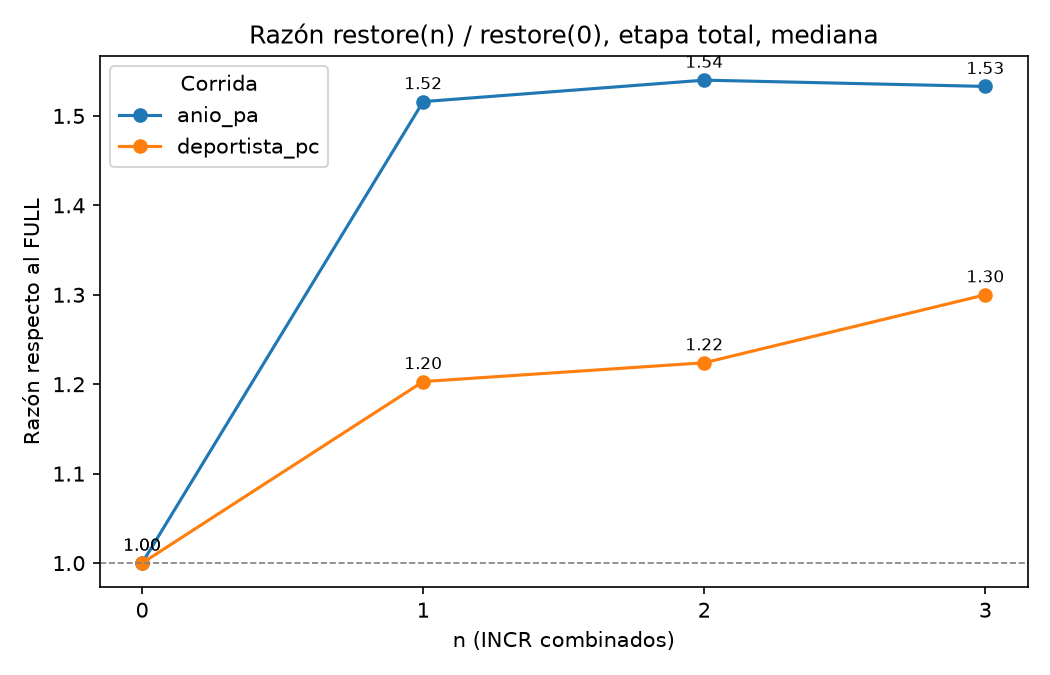
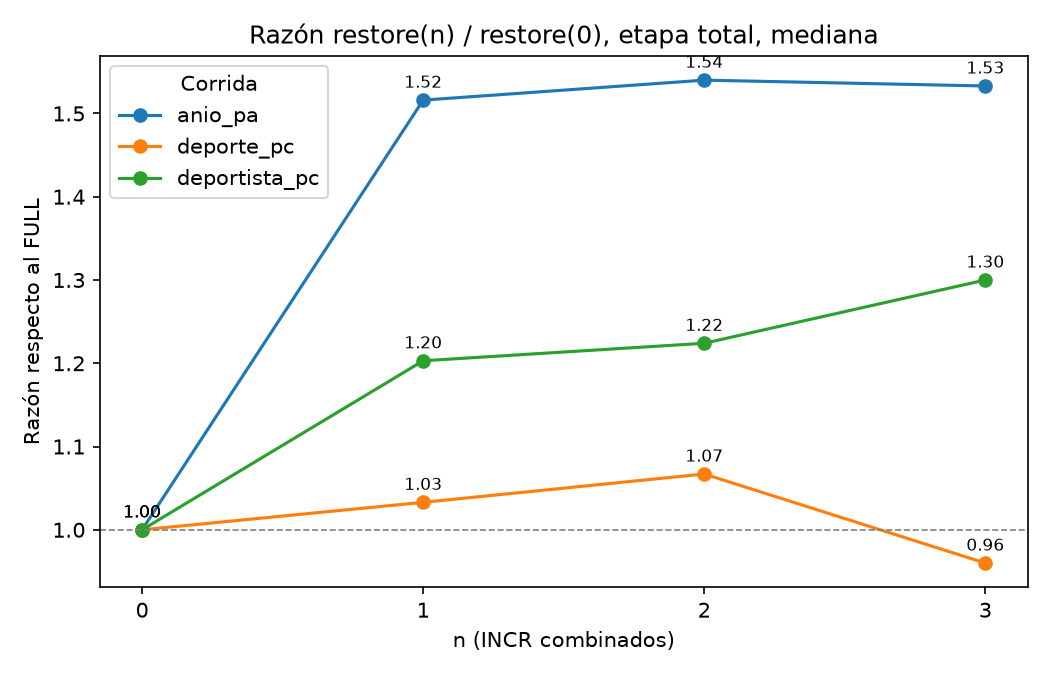
docs: resultados del analisis con anio_pa, deporte_pc y deportista_pc

diff --git a/Fase 2/07_documentacion/analisis/RESUMEN_ANALISIS.md b/Fase 2/07_documentacion/analisis/RESUMEN_ANALISIS.md
@@ -6,6 +6,7 @@ Generado por `07_documentacion/analisis/analizar.py` a partir de `05_logs/tiempo
 
 - `tiempos_anio_pa.csv`: válido (formato y cruce con logs).
 - `tiempos_deporte_pb.csv`: **excluido** (4 motivos, todos en `ESTADO_CSV.md`). Primero: fila 9 (restore n=0 rep 1, total 0.741 s, inicio 18:39:29.179): no coincide con `deporte_pb_12_restore_cadena0_rep1.log` (Total 2.444 s, inicio 2026-10-16 22:48:23); solo coincide con el log rotado `deporte_pb_12_restore_cadena0_rep1.20261016_222939.log`.
+- `tiempos_deporte_pc.csv`: válido (formato y cruce con logs).
 - `tiempos_deportista_pc.csv`: válido (formato y cruce con logs).
 - `tiempos_deportista_pa.csv`: no existe. [PENDIENTE]
 - `tiempos_deportista_pb.csv`: no existe. [PENDIENTE]
@@ -14,7 +15,9 @@ Detalle en `ESTADO_CSV.md`.
 
 **Advertencia:** las máquinas del equipo son distintas. Entre máquinas se comparan razones (por ejemplo restore(n)/restore(0)), no segundos. Los segundos absolutos solo sirven dentro de una misma corrida.
 
-Las corridas válidas (anio_pa, deportista_pc) difieren a la vez en el tipo de carga y en la máquina (pa-laptop, pc-laptop). Entre ellas solo se comparan razones, y aun así no se puede separar el efecto de la carga del de la máquina.
+En `pc-laptop` hay 2 corridas (deporte_pc, deportista_pc): entre ellas la máquina es la misma, así que la diferencia de tiempos se atribuye al tipo de carga y sí se pueden comparar segundos, con la salvedad de la caché del sistema operativo.
+
+Las corridas en máquinas distintas (anio_pa en pa-laptop, deporte_pc en pc-laptop, deportista_pc en pc-laptop) solo se comparan por razones; entre ellas no se puede separar el efecto de la carga del de la máquina.
 
 ## Medido
 
@@ -55,6 +58,44 @@ Restauración, `total` (mediana) y razón restore(n) / restore(0):
 - n=3: mediana 0.095 s, 2.7 % del total.
 
 `pg_verifybackup` de los respaldos (fuera del tiempo medido, solo informativo): FULL 0.083 s, INCR 1 0.081 s, INCR 2 0.081 s, INCR 3 0.078 s.
+
+### Corrida `deporte_pc` (máquina `pc-laptop`)
+
+Respaldos (etapa `basebackup`):
+
+- FULL: 1.516 s, 49973476 bytes (49.97 MB).
+- INCR 1: 0.845 s, 21730223 bytes (21.73 MB).
+- INCR 2: 0.948 s, 21730975 bytes (21.73 MB).
+- INCR 3: 0.921 s, 21747383 bytes (21.75 MB).
+
+Razón de tamaño incr(n).bytes / full.bytes:
+
+- INCR 1: 21730223 / 49973476 = 0.435.
+- INCR 2: 21730975 / 49973476 = 0.435.
+- INCR 3: 21747383 / 49973476 = 0.435.
+
+Restauración, mediana de 3 repeticiones por etapa (sin `total`):
+
+- n=0: combinar 0.351 s, arranque 0.980 s, validacion 0.287 s.
+- n=1: combinar 0.854 s, arranque 0.731 s, validacion 0.187 s.
+- n=2: combinar 0.937 s, arranque 0.639 s, validacion 0.193 s.
+- n=3: combinar 0.809 s, arranque 0.634 s, validacion 0.190 s.
+
+Restauración, `total` (mediana) y razón restore(n) / restore(0):
+
+- n=0: 1.837 s, razón 1.000.
+- n=1: 1.898 s, razón 1.033.
+- n=2: 1.960 s, razón 1.067.
+- n=3: 1.764 s, razón 0.960.
+
+`pg_verifybackup` dentro de `total` (de los logs de restauración):
+
+- n=0: mediana 0.094 s, 5.3 % del total.
+- n=1: mediana 0.058 s, 3.0 % del total.
+- n=2: mediana 0.065 s, 3.3 % del total.
+- n=3: mediana 0.060 s, 3.2 % del total.
+
+`pg_verifybackup` de los respaldos (fuera del tiempo medido, solo informativo): FULL 0.066 s, INCR 1 0.047 s, INCR 2 0.092 s, INCR 3 0.079 s.
 
 ### Corrida `deportista_pc` (máquina `pc-laptop`)
 
@@ -101,6 +142,7 @@ Restauración, `total` (mediana) y razón restore(n) / restore(0):
 ### Gráficos
 
 - `graficos/grafico1_etapas_restauracion_anio_pa.png`
+- `graficos/grafico1_etapas_restauracion_deporte_pc.png`
 - `graficos/grafico1_etapas_restauracion_deportista_pc.png`
 - `graficos/grafico2_tamano_respaldos.png`
 - `graficos/grafico3_razon_restauracion.png`
@@ -116,6 +158,12 @@ Esta sección interpreta los números de arriba. No son mediciones nuevas.
 - **Restauración.** La cadena completa (n=3) tomó 1.53 veces lo que el FULL. `combinar` pasa de 0.272 s con n=0 a 1.566 a 1.601 s con n=1 a 3, y `arranque` pasa de 1.549 s a 1.346 a 1.366 s. Con n=0 `restaurar.sh` copia el FULL con `cp -a`; con n mayor o igual a 1 usa `pg_combinebackup`, así que n=0 y n=1 no miden la misma herramienta. Entre n=1 y n=3 el `total` va de 3.393 a 3.430 s.
 - **Escala.** El tiempo medido más largo de la corrida es 3.447 s (respaldos y `total` mediano).
 
+### `deporte_pc`
+
+- **Tamaño de los respaldos.** Cada INCR pesa 0.435 veces el FULL (21.73 a 21.75 MB, FULL 49.97 MB). La parte del INCR que corresponde a datos nuevos y la que corresponde al piso fijo (WAL y archivos del sistema) no se pueden separar con estos números. Falta medir `pg_wal` dentro de cada respaldo para confirmarlo. [PENDIENTE]
+- **Restauración.** La cadena completa (n=3) tomó 0.96 veces lo que el FULL. `combinar` pasa de 0.351 s con n=0 a 0.809 a 0.937 s con n=1 a 3, y `arranque` pasa de 0.980 s a 0.634 a 0.731 s. Con n=0 `restaurar.sh` copia el FULL con `cp -a`; con n mayor o igual a 1 usa `pg_combinebackup`, así que n=0 y n=1 no miden la misma herramienta. Entre n=1 y n=3 el `total` va de 1.898 a 1.764 s. Las 3 repeticiones de n=0 (1.580 a 1.926 s) y de n=3 (1.741 a 1.916 s) se solapan: la diferencia entre el FULL y la cadena completa está dentro de la variación entre repeticiones y no se interpreta.
+- **Escala.** El tiempo medido más largo de la corrida es 1.960 s (respaldos y `total` mediano).
+
 ### `deportista_pc`
 
 - **Tamaño de los respaldos.** Cada INCR pesa entre 0.436 y 0.441 veces el FULL (21.82 a 22.03 MB, FULL 50.01 MB). Las rondas de Bolt agregan muy pocas filas, así que la hipótesis de la 4.10 es que ese tamaño lo domina un piso fijo (al menos un segmento de WAL de 16 MB y archivos del sistema) y no los datos nuevos. Falta medir `pg_wal` dentro de cada respaldo para confirmarlo. [PENDIENTE]
@@ -125,8 +173,8 @@ Esta sección interpreta los números de arriba. No son mediciones nuevas.
 ### Alcance
 
 - Se reporta la mediana de 3 repeticiones. La caché del sistema operativo puede favorecer a las repeticiones 2 y 3.
-- Estos números no bastan para concluir en general si conviene el FULL frecuente, el incremental o el diferencial: las corridas válidas difieren en carga y en máquina a la vez, y el piso fijo de cada respaldo (`pg_wal`) no está medido. [PENDIENTE]
-- `pg_verifybackup` pesó entre 2.7 % y 4.3 % del `total` de restauración (mediana por n) en anio_pa, deportista_pc.
+- Estos números no bastan para concluir en general si conviene el FULL frecuente, el incremental o el diferencial: las cargas medidas son pequeñas (los tiempos son de pocos segundos), las corridas en máquinas distintas no se comparan en segundos y el piso fijo de cada respaldo (`pg_wal`) no está medido. [PENDIENTE]
+- `pg_verifybackup` pesó entre 2.7 % y 5.3 % del `total` de restauración (mediana por n) en anio_pa, deporte_pc, deportista_pc.
 
 ## Pendiente
 

diff --git a/Fase 2/07_documentacion/analisis/ESTADO_CSV.md b/Fase 2/07_documentacion/analisis/ESTADO_CSV.md
@@ -6,6 +6,7 @@ Generado por `analizar.py`. Un CSV entra al análisis si cumple el formato de la
 |---|---|---:|---|
 | `tiempos_anio_pa.csv` | válido | 0 |  |
 | `tiempos_deporte_pb.csv` | excluido | 37 | fila 9 (restore n=0 rep 1, total 0.741 s, inicio 18:39:29.179): no coincide con `deporte_pb_12_restore_cadena0_rep1.log` (Total 2.444 s, inicio 2026-10-16 22:48:23); solo coincide con el log rotado `deporte_pb_12_restore_cadena0_rep1.20261016_222939.log`<br>fila 13 (restore n=1 rep 1, total 2.102 s, inicio 18:39:41.027): no coincide con `deporte_pb_13_restore_cadena1_rep1.log` (Total 8.431 s, inicio 2026-10-16 22:48:26); solo coincide con el log rotado `deporte_pb_13_restore_cadena1_rep1.20261016_224658.log`<br>fila 17 (restore n=2 rep 1, total 2.215 s, inicio 18:40:03.584): no coincide con `deporte_pb_14_restore_cadena2_rep1.log` (Total 3.840 s, inicio 2026-10-16 22:48:45); solo coincide con el log rotado `deporte_pb_14_restore_cadena2_rep1.20261016_224731.log`<br>fila 21 (restore n=3 rep 1, total 2.107 s, inicio 18:40:24.928): no coincide con `deporte_pb_15_restore_cadena3_rep1.log` (Total 3.768 s, inicio 2026-10-16 22:48:50); solo coincide con el log rotado `deporte_pb_15_restore_cadena3_rep1.20261016_224737.log` |
+| `tiempos_deporte_pc.csv` | válido | 0 |  |
 | `tiempos_deportista_pc.csv` | válido | 0 |  |
 | `tiempos_deportista_pa.csv` | no existe | | [PENDIENTE] |
 | `tiempos_deportista_pb.csv` | no existe | | [PENDIENTE] |

diff --git a/Fase 2/07_documentacion/analisis/tabla_c1_razon_restauracion.md b/Fase 2/07_documentacion/analisis/tabla_c1_razon_restauracion.md
@@ -2,13 +2,17 @@
 
 Solo `etapa == total`, mediana de las repeticiones.
 
-| corrida | maquina | n | total_mediana_s | razon_vs_n0 |
-|---|---|---:|---:|---:|
-| anio_pa | pa-laptop | 0 | 2.238 | 1.0 |
-| anio_pa | pa-laptop | 1 | 3.393 | 1.516 |
-| anio_pa | pa-laptop | 2 | 3.447 | 1.54 |
-| anio_pa | pa-laptop | 3 | 3.43 | 1.533 |
-| deportista_pc | pc-laptop | 0 | 1.267 | 1.0 |
-| deportista_pc | pc-laptop | 1 | 1.524 | 1.203 |
-| deportista_pc | pc-laptop | 2 | 1.551 | 1.224 |
-| deportista_pc | pc-laptop | 3 | 1.647 | 1.3 |
+| corrida | maquina | n | total_mediana_s | total_min_s | total_max_s | razon_vs_n0 |
+|---|---|---:|---:|---:|---:|---:|
+| anio_pa | pa-laptop | 0 | 2.238 | 2.224 | 2.255 | 1.0 |
+| anio_pa | pa-laptop | 1 | 3.393 | 3.379 | 3.475 | 1.516 |
+| anio_pa | pa-laptop | 2 | 3.447 | 3.376 | 3.481 | 1.54 |
+| anio_pa | pa-laptop | 3 | 3.43 | 3.419 | 3.638 | 1.533 |
+| deporte_pc | pc-laptop | 0 | 1.837 | 1.58 | 1.926 | 1.0 |
+| deporte_pc | pc-laptop | 1 | 1.898 | 1.853 | 2.005 | 1.033 |
+| deporte_pc | pc-laptop | 2 | 1.96 | 1.772 | 1.979 | 1.067 |
+| deporte_pc | pc-laptop | 3 | 1.764 | 1.741 | 1.916 | 0.96 |
+| deportista_pc | pc-laptop | 0 | 1.267 | 1.256 | 1.409 | 1.0 |
+| deportista_pc | pc-laptop | 1 | 1.524 | 1.455 | 1.595 | 1.203 |
+| deportista_pc | pc-laptop | 2 | 1.551 | 1.515 | 1.712 | 1.224 |
+| deportista_pc | pc-laptop | 3 | 1.647 | 1.496 | 1.909 | 1.3 |

diff --git a/Fase 2/07_documentacion/analisis/tabla_a_respaldos.md b/Fase 2/07_documentacion/analisis/tabla_a_respaldos.md
@@ -8,6 +8,10 @@
 | anio_pa | pa-laptop | 04 | INCR 1 | 1.77 | 27047530 | 27.05 |
 | anio_pa | pa-laptop | 06 | INCR 2 | 1.722 | 29153134 | 29.15 |
 | anio_pa | pa-laptop | 08 | INCR 3 | 1.738 | 29988752 | 29.99 |
+| deporte_pc | pc-laptop | 02 | FULL | 1.516 | 49973476 | 49.97 |
+| deporte_pc | pc-laptop | 04 | INCR 1 | 0.845 | 21730223 | 21.73 |
+| deporte_pc | pc-laptop | 06 | INCR 2 | 0.948 | 21730975 | 21.73 |
+| deporte_pc | pc-laptop | 08 | INCR 3 | 0.921 | 21747383 | 21.75 |
 | deportista_pc | pc-laptop | 02 | FULL | 0.975 | 50006396 | 50.01 |
 | deportista_pc | pc-laptop | 04 | INCR 1 | 0.92 | 21992494 | 21.99 |
 | deportista_pc | pc-laptop | 06 | INCR 2 | 0.784 | 22033700 | 22.03 |

diff --git a/Fase 2/07_documentacion/analisis/tabla_b_restauracion_etapas.md b/Fase 2/07_documentacion/analisis/tabla_b_restauracion_etapas.md
@@ -8,6 +8,10 @@ Sin la etapa `total`. Cada columna es la mediana de esa etapa por separado. La s
 | anio_pa | pa-laptop | 1 | 3 | 1.566 | 1.347 | 0.291 |
 | anio_pa | pa-laptop | 2 | 3 | 1.601 | 1.346 | 0.311 |
 | anio_pa | pa-laptop | 3 | 3 | 1.58 | 1.366 | 0.318 |
+| deporte_pc | pc-laptop | 0 | 3 | 0.351 | 0.98 | 0.287 |
+| deporte_pc | pc-laptop | 1 | 3 | 0.854 | 0.731 | 0.187 |
+| deporte_pc | pc-laptop | 2 | 3 | 0.937 | 0.639 | 0.193 |
+| deporte_pc | pc-laptop | 3 | 3 | 0.809 | 0.634 | 0.19 |
 | deportista_pc | pc-laptop | 0 | 3 | 0.249 | 0.736 | 0.152 |
 | deportista_pc | pc-laptop | 1 | 3 | 0.713 | 0.533 | 0.162 |
 | deportista_pc | pc-laptop | 2 | 3 | 0.753 | 0.532 | 0.157 |

diff --git a/Fase 2/07_documentacion/analisis/tabla_c2_razon_bytes.md b/Fase 2/07_documentacion/analisis/tabla_c2_razon_bytes.md
@@ -5,6 +5,9 @@
 | anio_pa | pa-laptop | 1 | 27047530 | 49973573 | 0.541 |
 | anio_pa | pa-laptop | 2 | 29153134 | 49973573 | 0.583 |
 | anio_pa | pa-laptop | 3 | 29988752 | 49973573 | 0.6 |
+| deporte_pc | pc-laptop | 1 | 21730223 | 49973476 | 0.435 |
+| deporte_pc | pc-laptop | 2 | 21730975 | 49973476 | 0.435 |
+| deporte_pc | pc-laptop | 3 | 21747383 | 49973476 | 0.435 |
 | deportista_pc | pc-laptop | 1 | 21992494 | 50006396 | 0.44 |
 | deportista_pc | pc-laptop | 2 | 22033700 | 50006396 | 0.441 |
 | deportista_pc | pc-laptop | 3 | 21820787 | 50006396 | 0.436 |

diff --git a/Fase 2/07_documentacion/analisis/tabla_e_pg_verifybackup.md b/Fase 2/07_documentacion/analisis/tabla_e_pg_verifybackup.md
@@ -8,6 +8,10 @@ Segundos leídos de la línea `pg_verifybackup: X s` de cada log de restauració
 | anio_pa | 1 | 0.095 | 3.393 | 2.8 |
 | anio_pa | 2 | 0.098 | 3.447 | 2.8 |
 | anio_pa | 3 | 0.095 | 3.43 | 2.7 |
+| deporte_pc | 0 | 0.094 | 1.837 | 5.3 |
+| deporte_pc | 1 | 0.058 | 1.898 | 3.0 |
+| deporte_pc | 2 | 0.065 | 1.96 | 3.3 |
+| deporte_pc | 3 | 0.06 | 1.764 | 3.2 |
 | deportista_pc | 0 | 0.055 | 1.267 | 4.3 |
 | deportista_pc | 1 | 0.055 | 1.524 | 3.6 |
 | deportista_pc | 2 | 0.055 | 1.551 | 3.5 |
